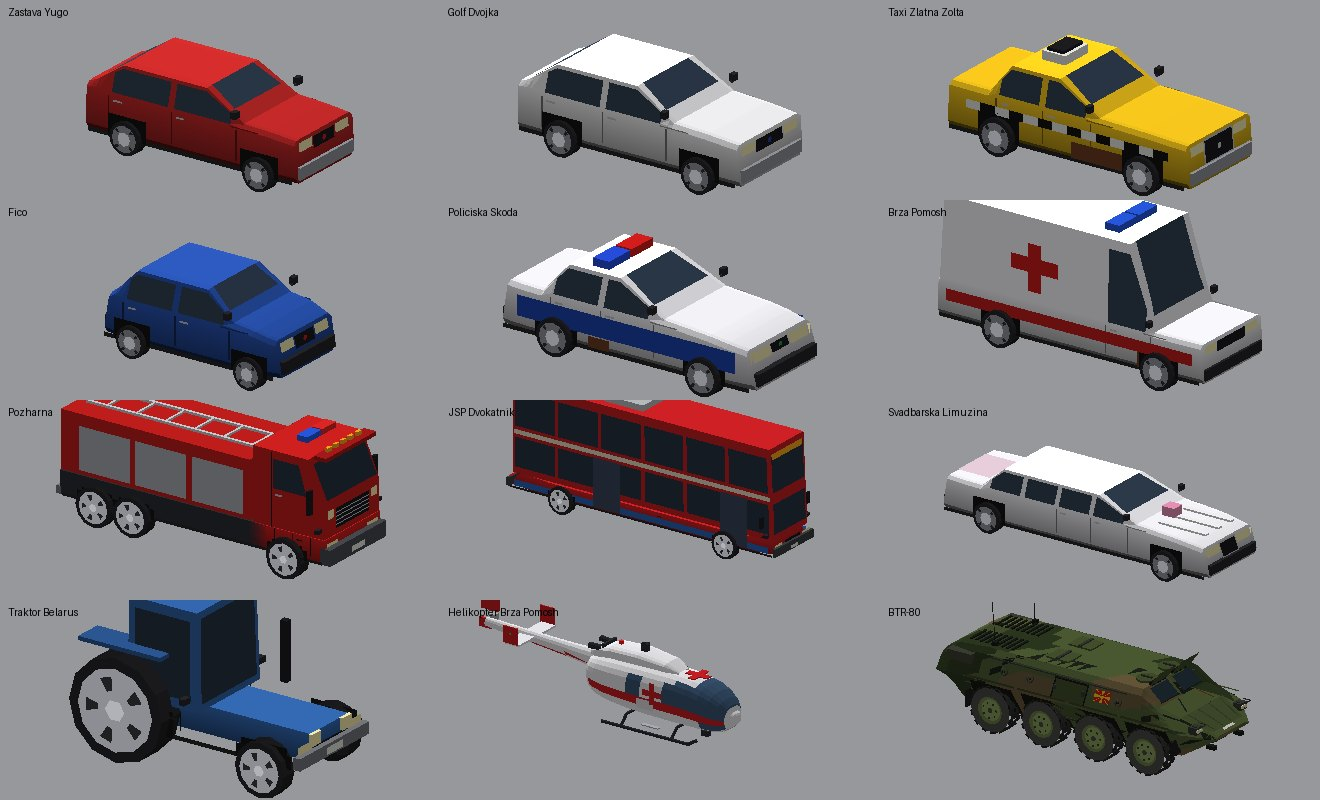
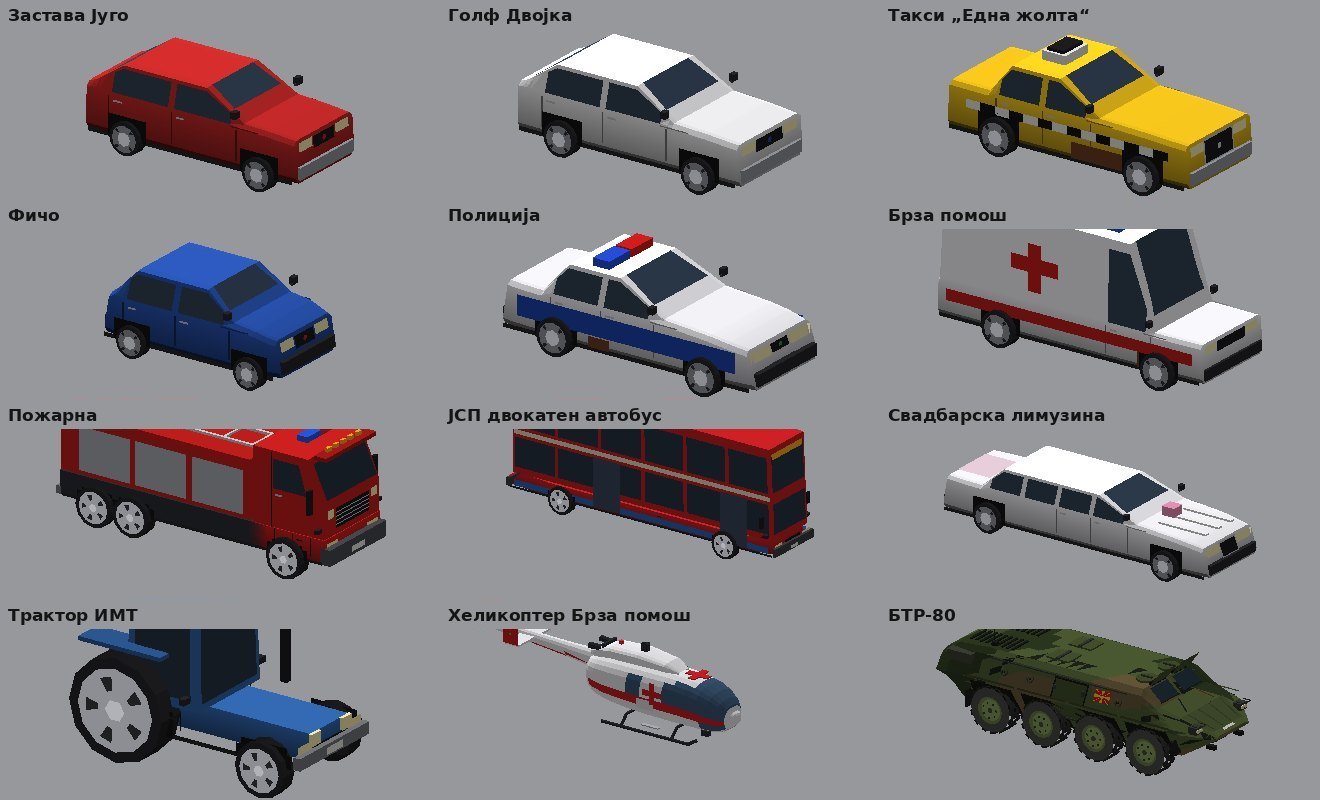
Tractor is an IMT: rename internal id, README names match the game, hero render labelled with in-game names

diff --git a/src/vehicles.py b/src/vehicles.py
@@ -66,7 +66,7 @@ _V = [
     ("Pajak Vlechna Sluzhba", "pickup", 5.60, 2.00, 1.90, 1, (240, 200, 30), "tow"),
     ("Burek Dostava", "van", 4.60, 1.95, 2.10, 2, (240, 200, 60), "burek"),
     ("Makedonska Posta", "van", 5.00, 2.00, 2.30, 1, (240, 200, 30), "post"),
-    ("Traktor Belarus", "tractor", 4.00, 1.95, 2.60, 1, (50, 100, 170), ""),
+    ("Traktor IMT", "tractor", 4.00, 1.95, 2.60, 1, (50, 100, 170), ""),
     ("Svadbarska Limuzina", "limo", 6.60, 2.00, None, 1, WHITE_, "ribbons"),
     ("Avtobus Skopje-Ohrid", "bus", 12.0, 2.40, 3.40, 1, WHITE_, "coach"),
     ("Sladoled Kombe", "van", 4.30, 1.90, 2.10, 1, (240, 170, 200), "icecream"),
@@ -205,7 +205,7 @@ MK_CAR = {
     "Tesla Elon": TXT("vehicles.0043"), "Hummer Patriot": TXT("vehicles.0044"), "Smart Sitnichka": TXT("vehicles.0045"), "Cayenne od Germanija": TXT("vehicles.0046"),
     "Range Rover Ortak": TXT("vehicles.0047"), "Policiska Skoda": TXT("vehicles.0048"), "Brza Pomosh": TXT("vehicles.0049"), "Pozharna": TXT("vehicles.0050"),
     "Smetar Kamion": TXT("vehicles.0051"), "Betonjerka": TXT("vehicles.0052"), "Pajak Vlechna Sluzhba": TXT("vehicles.0053"), "Burek Dostava": TXT("vehicles.0054"),
-    "Makedonska Posta": TXT("vehicles.0055"), "Traktor Belarus": TXT("vehicles.0056"), "Svadbarska Limuzina": TXT("vehicles.0057"),
+    "Makedonska Posta": TXT("vehicles.0055"), "Traktor IMT": TXT("vehicles.0056"), "Svadbarska Limuzina": TXT("vehicles.0057"),
     "Avtobus Skopje-Ohrid": TXT("vehicles.0058"), "Sladoled Kombe": TXT("vehicles.0059"),
     "Golf Petka TDI": TXT("vehicles.0060"), "Golf Shestka Uvezen": TXT("vehicles.0061"),
     "Passat B5 Karavan": TXT("vehicles.0062"), "Passat B6 TDI": TXT("vehicles.0063"),

diff --git a/README.md b/README.md
@@ -39,11 +39,11 @@ Windows · Python + raylib · бесплатна · цела на македон
 
 ### Земи сè што има тркала (и неколку работи без)
 
-Околу сто модели возила, сите од чесни коцки: југа и фиќа, лади нива, трабанти, голф двојки, пасат на дијаспора натоварен до таван, такси, полиција, брза помош, пожарна, двокатен ЈСП автобус, автобус Скопје-Охрид, свадбарска лимузина, трактор Беларус, цистерни, велосипеди, мопеди и е-тротинети. Удрени места, пожар и експлозии се вклучени. Предните тркала вртат со воланот, задниот дел се лизга. Да, може дрифт.
+Околу сто модели возила, сите од чесни коцки: југо и фичо, лади нива, трабанти, голф двојки, пасат на дијаспора натоварен до таван, такси, полиција, брза помош, пожарна, двокатен ЈСП автобус, автобус Скопје-Охрид, свадбарска лимузина, трактор ИМТ, цистерни, велосипеди, мопеди и е-тротинети. Удрени места, пожар и експлозии се вклучени. Предните тркала вртат со воланот, задниот дел се лизга. Да, може дрифт.
 
-<p align="center"><img src="docs/screenshots/hero_cars.jpg" width="900" alt="Југо, голф, такси, фиќо, полициска шкода, брза помош, пожарна, двокатен автобус, свадбарска лимузина, трактор, медицински хеликоптер и БТР-80 од три четвртини"></p>
+<p align="center"><img src="docs/screenshots/hero_cars.jpg" width="900" alt="Југо, голф, такси, фичо, полиција, брза помош, пожарна, двокатен автобус, свадбарска лимузина, трактор, медицински хеликоптер и БТР-80 од три четвртини"></p>
 
-<p align="center"><sub>Неколку од нив, право од цртачот на модели во играта (натписите се внатрешните имиња). Да, последниот е оклопен транспортер. Ќе стигнеме и до него.</sub></p>
+<p align="center"><sub>Неколку од нив, право од цртачот на модели во играта (натписите се имињата од играта). Да, последниот е оклопен транспортер. Ќе стигнеме и до него.</sub></p>
 
 ### Земи го хеликоптерот
 

diff --git a/docs/README.en.md b/docs/README.en.md
@@ -39,11 +39,11 @@ Extras: `--size 1280x720`, `--fullscreen`, `--cars N`, `--peds N`, `--hour H`, `
 
 ### Steal anything with wheels (and a few things without)
 
-About a hundred vehicle models, all made of honest boxes: Yugos and Ficos, Lada Nivas, Trabants, Golf Dvojkas, the diaspora Passat loaded to the roof, taxis, police cars, ambulances, fire trucks, a double-decker city bus, the Skopje-Ohrid coach, a wedding limousine, a Belarus tractor, tankers, bikes, mopeds and e-scooters. Dents, fires and explosions are included. The tyres steer. The back end swings out. Yes, you can drift.
+About a hundred vehicle models, all made of honest boxes: Yugos and Fichos, Lada Nivas, Trabants, Golf Dvojkas, the diaspora Passat loaded to the roof, taxis, police cars, ambulances, fire trucks, a double-decker city bus, the Skopje-Ohrid coach, a wedding limousine, a IMT tractor, tankers, bikes, mopeds and e-scooters. Dents, fires and explosions are included. The tyres steer. The back end swings out. Yes, you can drift.
 
-<p align="center"><img src="screenshots/hero_cars.jpg" width="900" alt="Yugo, Golf, taxi, Fico, police Skoda, ambulance, fire truck, double-decker bus, wedding limousine, tractor, medical helicopter and a БТР-80 in 3/4 view"></p>
+<p align="center"><img src="screenshots/hero_cars.jpg" width="900" alt="Yugo, Golf, taxi, Fičo, police car, ambulance, fire truck, double-decker bus, wedding limousine, tractor, medical helicopter and a БТР-80 in 3/4 view"></p>
 
-<p align="center"><sub>A few of them, straight from the game's model renderer (labels are the internal names). Yes, the last one is an armoured personnel carrier. We'll get to that.</sub></p>
+<p align="center"><sub>A few of them, straight from the game's model renderer (labels are the in-game names). Yes, the last one is an armoured personnel carrier. We'll get to that.</sub></p>
 
 ### Take the helicopter
 
